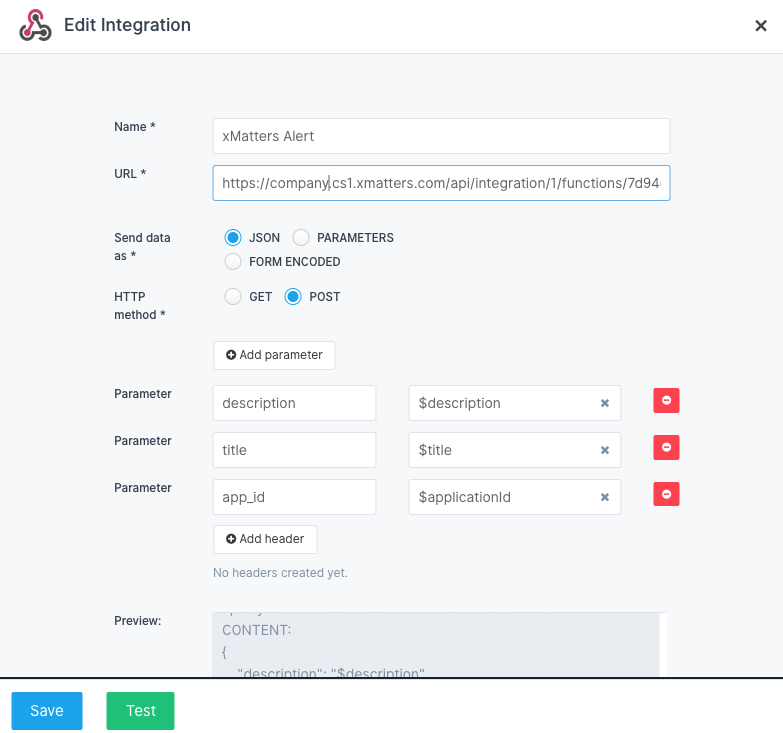
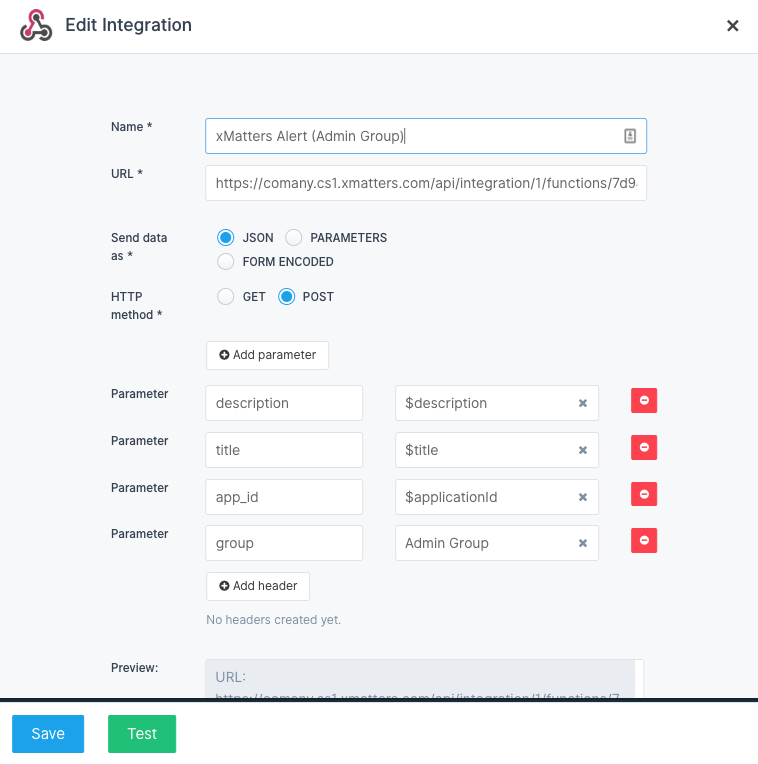
initial commit

diff --git a/README.md b/README.md
@@ -14,7 +14,6 @@ Create xMatters Alerts from Sematext
 # Files
 
 - [xMatters Sematext Communication Plan](ServiceNowUpdates/xMattersConfig-script_include.xml)
-- [xMattersIncident Script Include update XML](ServiceNowUpdates/xMattersIncident-script_include.xml)
 
 # How it works
 
@@ -230,7 +229,11 @@ description = $description
 title = $title
 <br>
 app_id = \$app_id
+<br>
+group = Your xMatters Target Group Name
 <br><br>
+
+**NOTE: You will want to create an Sematext Notification Hook for each group you want to target in xMatters. Each Notification Hook will be associated to a Sematext Alert Rule. By changing the group parameter, you can target different xMatters groups depending on the alert rule triggered in Sematext.**
 
 Add any additional parameters / values you want to pass to xMatters
 
